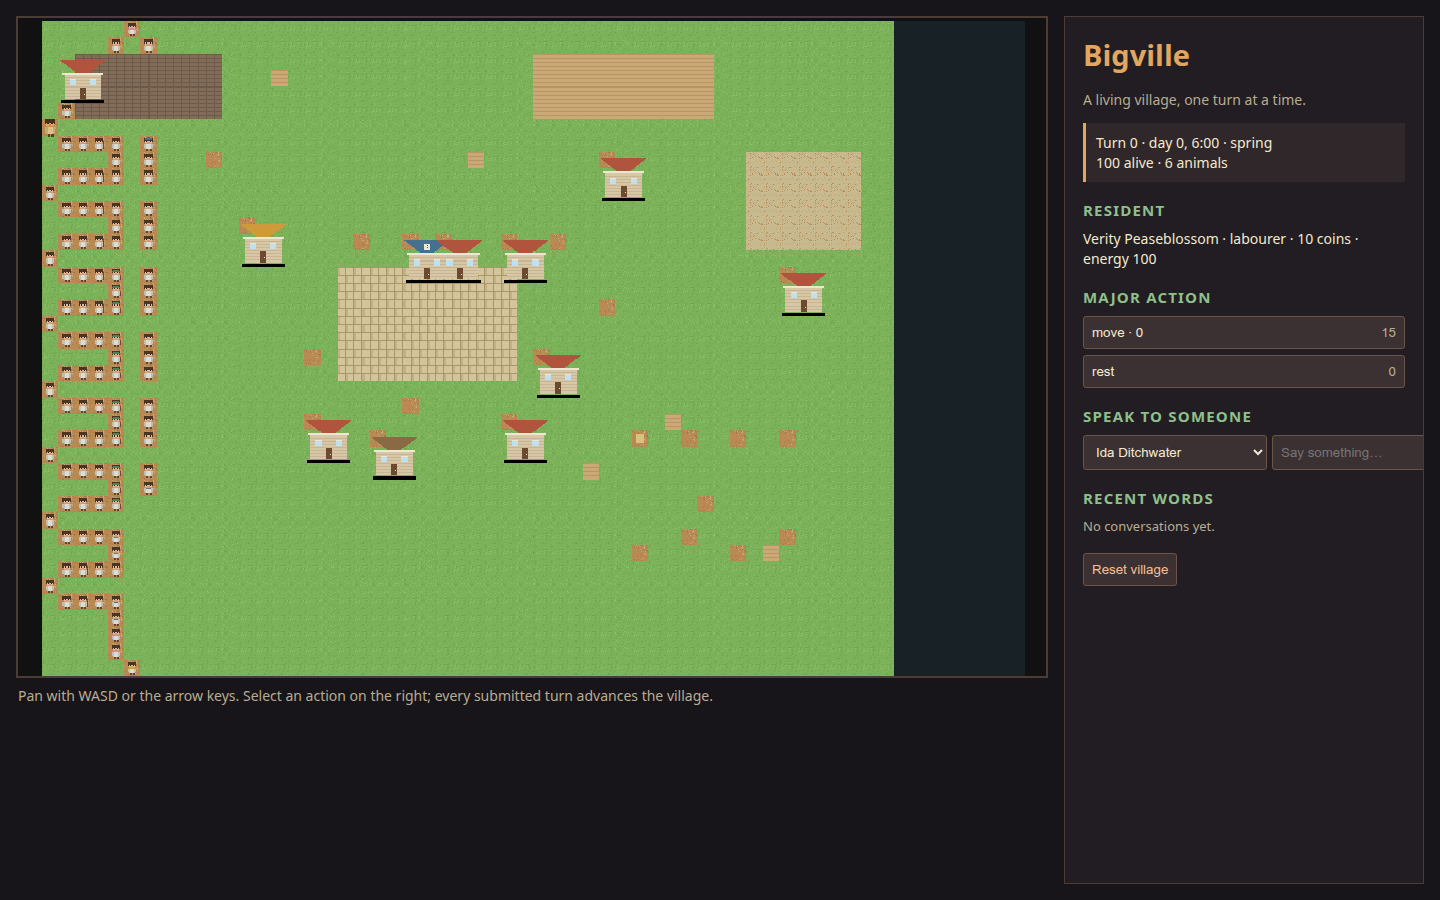
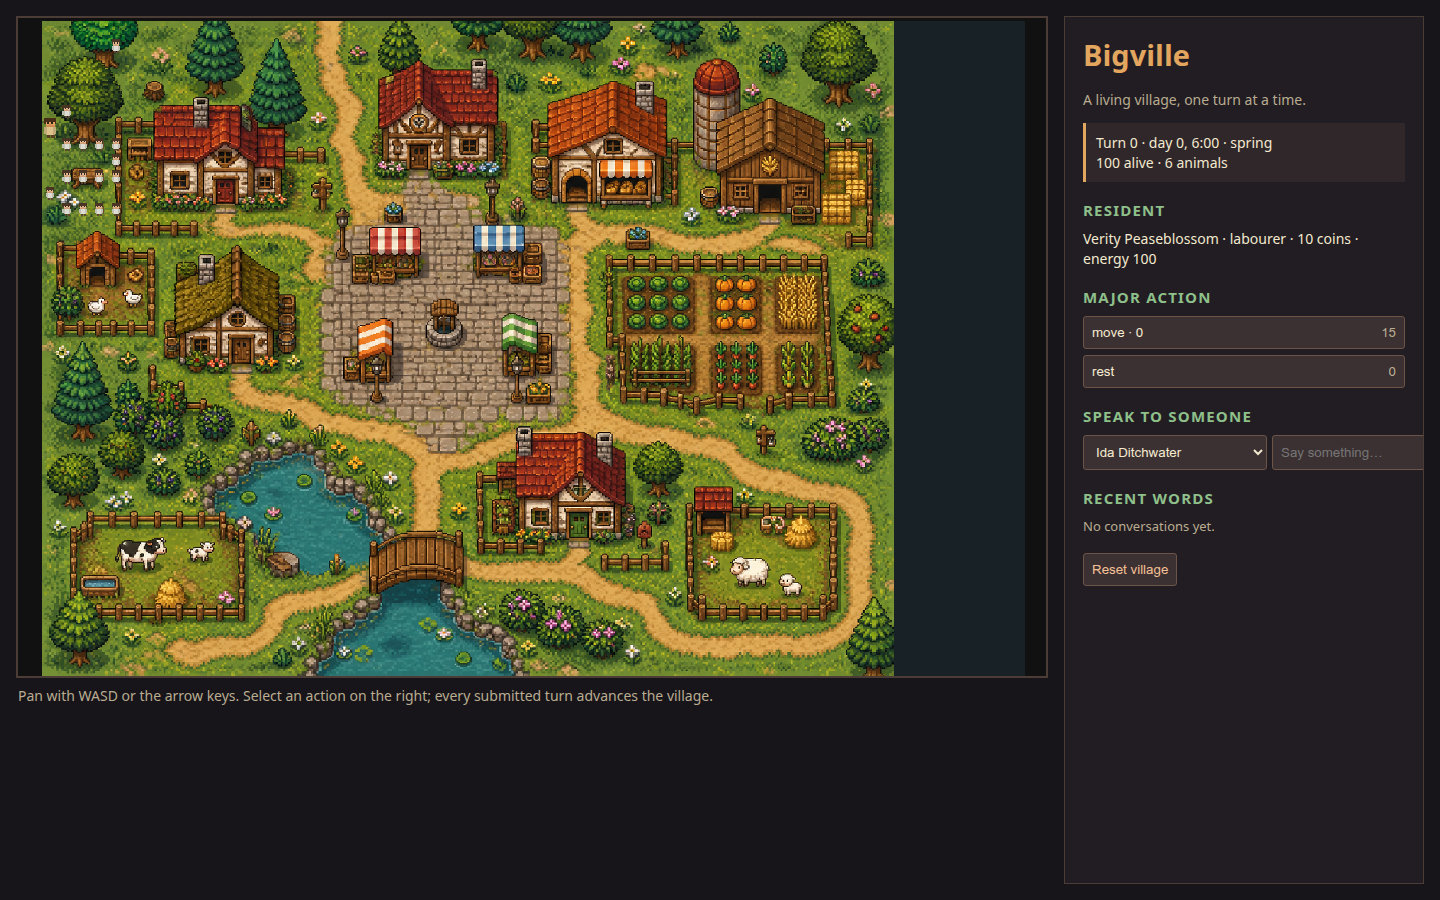
Refresh game visuals with cosy pixel art village

diff --git a/bigville/game/game.js b/bigville/game/game.js
@@ -101,6 +101,7 @@ class BigvilleScene extends Phaser.Scene {
   constructor() { super('bigville'); this.objects = []; }
 
   preload() {
+    this.load.image('village_scene', 'assets/village_scene.png');
     this.load.spritesheet('tileset', 'assets/tileset.png', {frameWidth: TILE, frameHeight: TILE});
     this.load.spritesheet('buildings', 'assets/buildings.png', {frameWidth: 48, frameHeight: 48});
     this.load.spritesheet('characters', 'assets/character_variants.png', {frameWidth: 16, frameHeight: 16});
@@ -126,39 +127,31 @@ class BigvilleScene extends Phaser.Scene {
     for (const object of this.objects) object.destroy();
     this.objects = [];
     const map = snapshot.world.map;
-    const grid = map.grid || [];
-    for (let y = 0; y < grid.length; y++) {
-      for (let x = 0; x < (grid[y] || []).length; x++) {
-        const frame = TILE_FRAMES[grid[y][x]] ?? 0;
-        this.objects.push(this.add.image(x * TILE + TILE / 2, y * TILE + TILE / 2, 'tileset', frame).setOrigin(.5));
-      }
-    }
-    for (const building of (map.buildings || [])) {
-      const pos = building.position || [building.x || 0, building.y || 0];
-      const kind = String(building.type || '').toLowerCase();
-      const frame = {house: 0, townhall: 1, market: 4, granary: 10, root_cellar: 11,
-        records_office: 16, watchhouse: 17, kitchen: 18, dairy: 19, bakery: 31,
-        mill: 33, printshop: 34}[kind] ?? 0;
-      this.objects.push(this.add.image(pos[0] * TILE + 24, pos[1] * TILE + 24, 'buildings', frame).setOrigin(.5));
-    }
-    for (const animal of (snapshot.world.animals || [])) {
-      const pos = animal.position || [0, 0];
-      const marker = this.add.rectangle(pos[0] * TILE + 8, pos[1] * TILE + 8, 8, 8, 0xd8c37d);
-      this.objects.push(marker);
-    }
-    for (const resident of (snapshot.world.residents || [])) {
+    const width = map.width * TILE;
+    const height = map.height * TILE;
+    const backdrop = this.add.image(width / 2, height / 2, 'village_scene')
+      .setDisplaySize(width, height).setDepth(0);
+    this.objects.push(backdrop);
+    const allResidents = snapshot.world.residents || [];
+    const playerResident = allResidents.find((resident) => resident.id === snapshot.player);
+    const visibleResidents = allResidents.filter((resident) => {
+      if (resident.id === snapshot.player || !playerResident) return true;
+      return Math.abs((resident.x || 0) - (playerResident.x || 0)) <= 5 &&
+        Math.abs((resident.y || 0) - (playerResident.y || 0)) <= 5;
+    });
+    for (const resident of visibleResidents) {
       const pos = resident.position || [0, 0];
       const role = String(resident.role || '').toLowerCase();
       const variant = ROLE_VARIANTS[role] ?? 0;
       const frame = variant * 12; // first (down/idle) frame for the role variant
-      const sprite = this.add.sprite(pos[0] * TILE + 8, pos[1] * TILE + 8, 'characters', frame);
-      if (resident.id === snapshot.player) sprite.setScale(1.3).setTint(0xffe1a8);
+      const sprite = this.add.sprite(pos[0] * TILE + 8, pos[1] * TILE + 8, 'characters', frame).setDepth(3);
+      if (resident.id === snapshot.player) sprite.setScale(1.45).setTint(0xffe1a8);
       this.objects.push(sprite);
       if (resident.id === snapshot.player) {
         this.cameras.main.centerOn(pos[0] * TILE, pos[1] * TILE);
       }
     }
-    this.cameras.main.setBounds(0, 0, map.width * TILE, map.height * TILE);
+    this.cameras.main.setBounds(0, 0, width, height);
   }
 }
 

diff --git a/tests/test_bigville_server.py b/tests/test_bigville_server.py
@@ -19,5 +19,6 @@ def test_game_assets_are_present():
 
     for filename in ("index.html", "game.js", "game.css", "assets/tileset.png",
                      "assets/buildings.png", "assets/character_variants.png",
-                     "assets/items.png", "assets/actions.png", "assets/manifest.json"):
+                     "assets/items.png", "assets/actions.png", "assets/manifest.json",
+                     "assets/village_scene.png"):
         assert (GAME_ROOT / filename).is_file(), filename

diff --git a/README.md b/README.md
@@ -32,8 +32,9 @@ python -m bigville.server
 # open http://127.0.0.1:8765/
 ```
 
-The pixel art in `bigville/game/assets/` is included in the package. Use the
-action buttons to submit a major action, or speak to another resident;
+The hand-pixeled village scene in `bigville/game/assets/village_scene.png` and
+the supporting sprite/icon sheets are included in the package. Use the action
+buttons to submit a major action, or speak to another resident;
 autonomous deterministic residents take their own backend decisions on the
 same turn.
 
